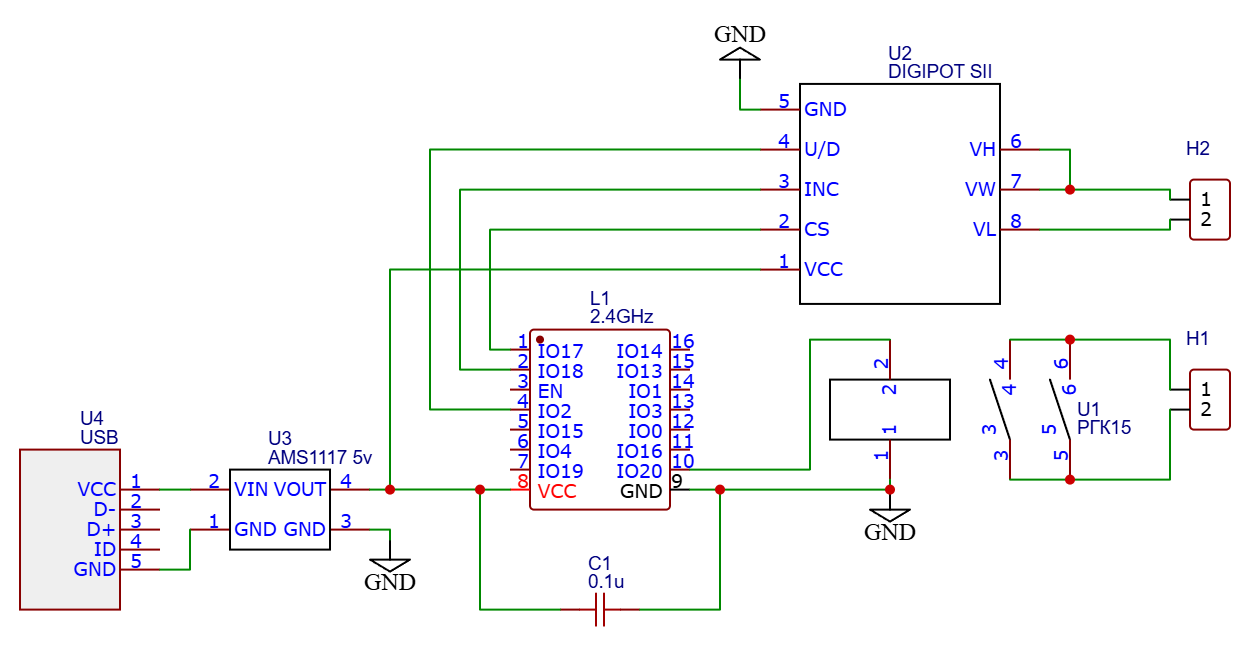
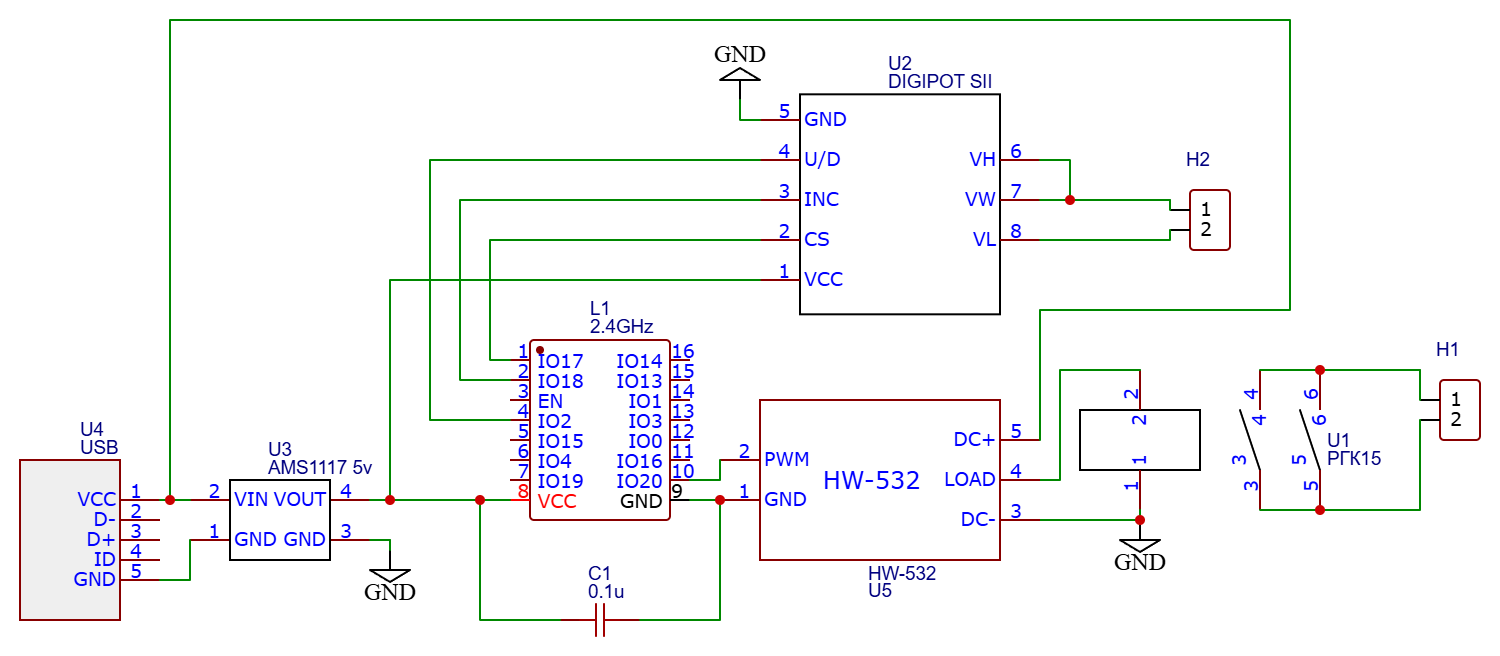
some fixes

diff --git a/main.cpp b/main.cpp
@@ -20,7 +20,7 @@ static int ud_port_pin = 2;
 
 void setup()
 {
-  Serial.begin(9600);
+  Serial.begin(115200);
   Serial.println("Start");
 
   Serial.print("Start WiFi on ");
